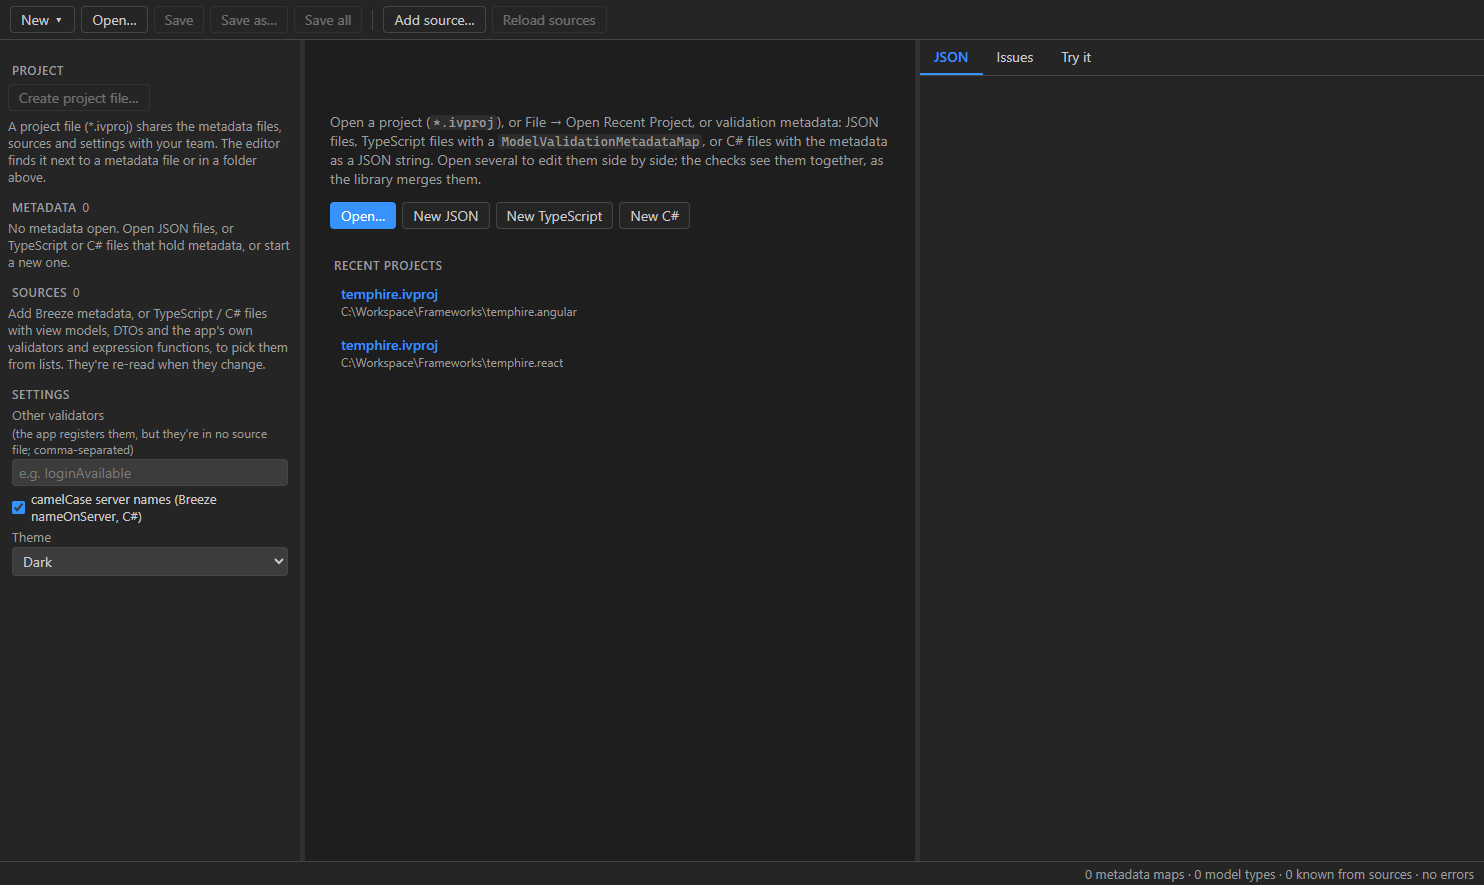
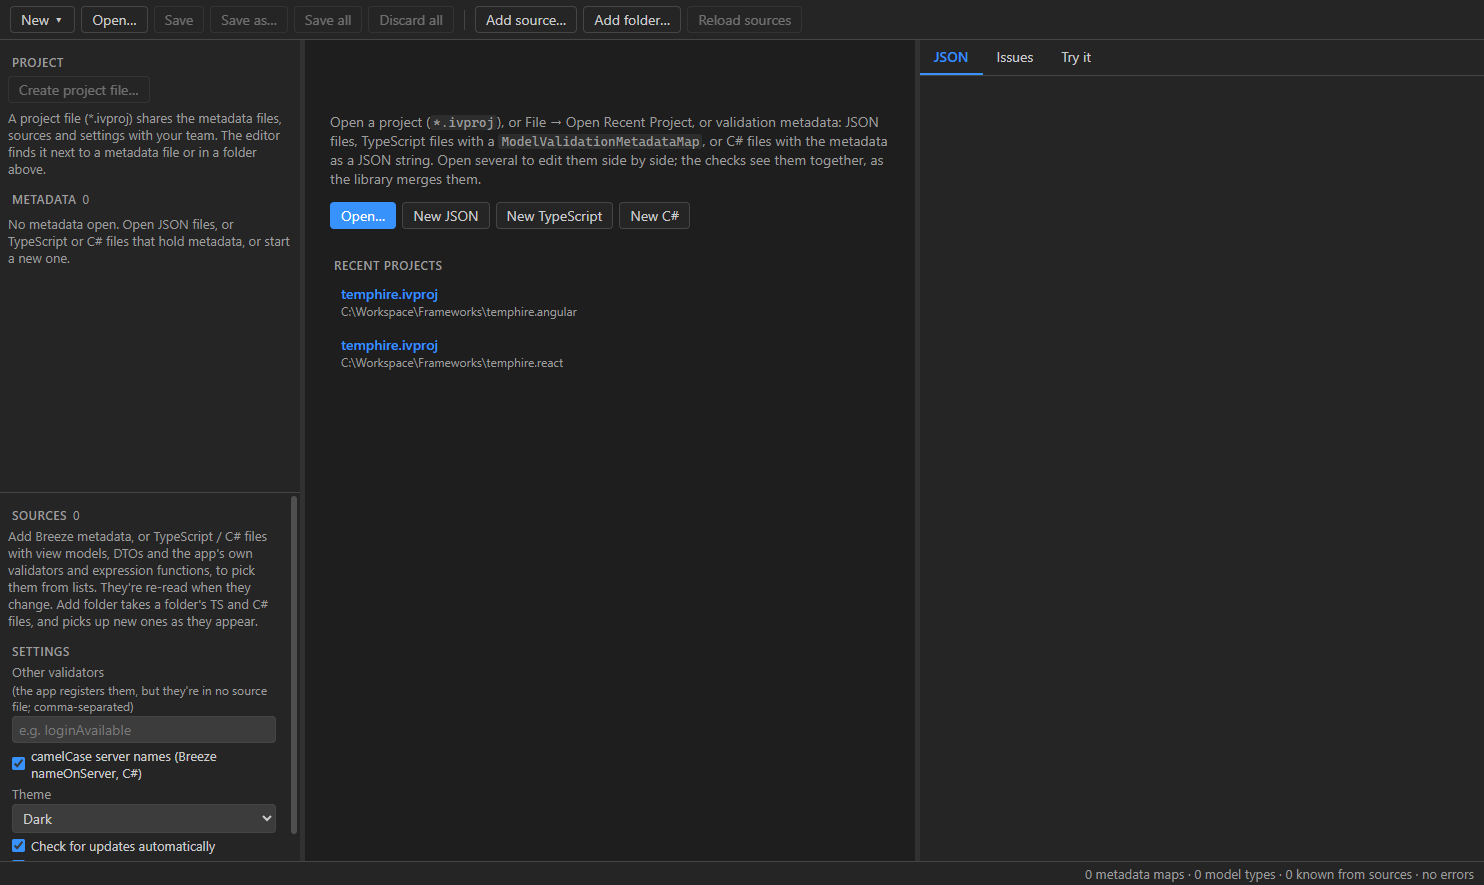
README: screenshots of the current version, and three new ones
All 14 retaken from the current build, same scenes; new: searchable lists,
a validator that doesn't fit its property, and sources from a folder.

Changed region(s): [[0.0, 0.061, 0.217, 0.9763], [0.248, 0.0, 0.527, 0.0305]]

diff --git a/README.md b/README.md
@@ -111,6 +111,10 @@ Two settings in the sidebar's Settings decide what happens: *Check for updates a
 |---|---|---|
 | ![](docs/screenshots/ts-maps.png) | ![](docs/screenshots/start-page.png) | ![](docs/screenshots/new-menu.png) |
 
+| Searchable lists: `from` narrowed to `staff name` | A validator that doesn't fit its property | Sources from a folder, as a pattern |
+|---|---|---|
+| ![](docs/screenshots/searchable-list.png) | ![](docs/screenshots/validator-kinds.png) | ![](docs/screenshots/folder-sources.png) |
+
 ## Running it
 
 Node 26.13.1 (the current LTS; `.node-version`) to build and run the tooling. With nvs: `nvs use 26.13.1`. The app itself runs on the Node inside Electron (24.22 in Electron 45).
